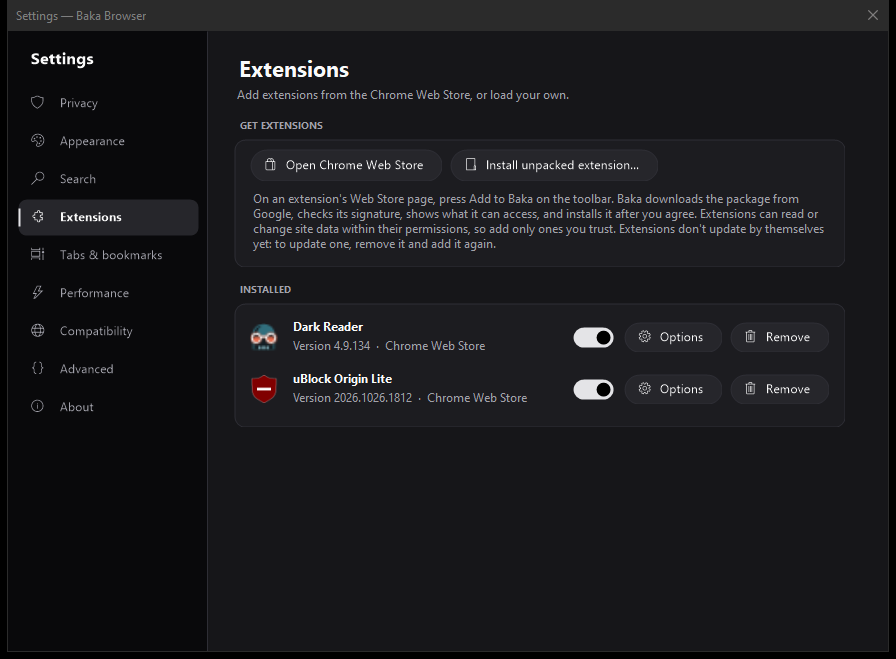
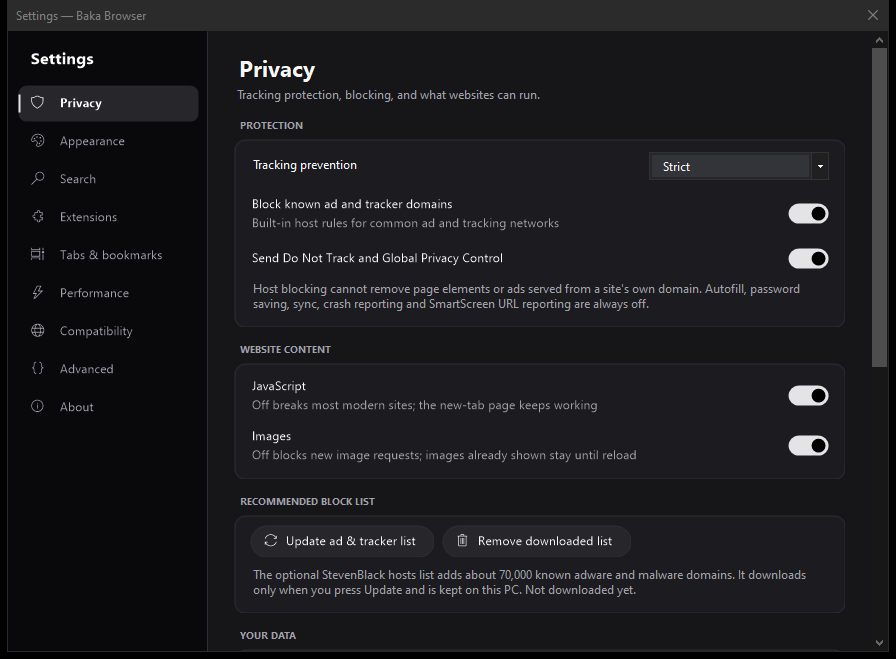
Baka Browser 1.5.0: uBlock Origin Lite on first start, lower background-tab memory, upload and 4K self-tests

diff --git a/BrowserForm.MediaTest.cs b/BrowserForm.MediaTest.cs
@@ -1,0 +1,130 @@
+using System.Net;
+using System.Text;
+using System.Text.Json;
+
+namespace Baka;
+
+/// Part of --ui-test: real file uploads (a photo and a video picked through the page's file input, and a
+/// large drag-and-drop style FormData post) to a local server, and the engine's 4K video decoding support.
+sealed partial class BrowserForm
+{
+    async Task RunMediaChecksAsync(Action<bool, string> step, Action<string> note, Func<string, int, Task> go,
+        Func<string, Task<string>> eval, Func<int, Task> wait, string reportDir)
+    {
+        var port = 47000 + Random.Shared.Next(1000);
+        var prefix = $"http://127.0.0.1:{port}/";
+        using var listener = new HttpListener();
+        listener.Prefixes.Add(prefix);
+        var received = new List<(string Path, long Bytes)>();
+        try { listener.Start(); }
+        catch (Exception ex) { step(false, "local upload server could not start: " + ex.Message); return; }
+        var serving = Task.Run(async () =>
+        {
+            while (listener.IsListening)
+            {
+                HttpListenerContext ctx;
+                try { ctx = await listener.GetContextAsync(); } catch { break; }
+                try
+                {
+                    long total = 0;
+                    if (ctx.Request.HasEntityBody)
+                    {
+                        var buffer = new byte[1 << 16]; int n;
+                        while ((n = await ctx.Request.InputStream.ReadAsync(buffer)) > 0) total += n;
+                    }
+                    lock (received) received.Add((ctx.Request.Url!.AbsolutePath, total));
+                    var body = ctx.Request.Url!.AbsolutePath == "/"
+                        ? "<!doctype html><title>upload</title><form id=f method=post action=/form enctype=multipart/form-data><input id=photo type=file name=photo accept=image/*><input id=video type=file name=video accept=video/*></form>"
+                        : $"received {total}";
+                    var bytes = Encoding.UTF8.GetBytes(body);
+                    ctx.Response.ContentType = "text/html";
+                    ctx.Response.ContentLength64 = bytes.Length;
+                    await ctx.Response.OutputStream.WriteAsync(bytes);
+                    ctx.Response.Close();
+                }
+                catch { try { ctx.Response.Abort(); } catch { } }
+            }
+        });
+
+        try
+        {
+            // test files: a real JPEG-sized photo and a 40 MB "video"
+            var photo = Path.Combine(reportDir, "upload-photo.jpg");
+            var video = Path.Combine(reportDir, "upload-video.mp4");
+            File.WriteAllBytes(photo, RandomBytes(3 * 1024 * 1024));
+            File.WriteAllBytes(video, RandomBytes(40 * 1024 * 1024));
+
+            await go(prefix, 1200);
+            if (Current?.View.CoreWebView2 is not { } core) { step(false, "upload page did not open"); return; }
+            // Put the files into the page's <input type=file> exactly as the file picker does.
+            await core.CallDevToolsProtocolMethodAsync("DOM.enable", "{}");
+            var doc = JsonDocument.Parse(await core.CallDevToolsProtocolMethodAsync("DOM.getDocument", "{}"));
+            var rootId = doc.RootElement.GetProperty("root").GetProperty("nodeId").GetInt32();
+            foreach (var (selector, file) in new[] { ("#photo", photo), ("#video", video) })
+            {
+                var q = JsonDocument.Parse(await core.CallDevToolsProtocolMethodAsync("DOM.querySelector",
+                    JsonSerializer.Serialize(new { nodeId = rootId, selector })));
+                var nodeId = q.RootElement.GetProperty("nodeId").GetInt32();
+                await core.CallDevToolsProtocolMethodAsync("DOM.setFileInputFiles",
+                    JsonSerializer.Serialize(new { files = new[] { file }, nodeId }));
+            }
+            var sizes = await eval("JSON.stringify([document.getElementById('photo').files[0]?.size||0,document.getElementById('video').files[0]?.size||0])");
+            note("file inputs hold: " + sizes);
+            // Form submit (classic upload) and fetch with FormData (what most sites use).
+            var fetchResult = await EvalAwaitAsync(core, @"(async()=>{const fd=new FormData();fd.append('photo',document.getElementById('photo').files[0]);fd.append('video',document.getElementById('video').files[0]);
+                try{const r=await fetch('/fetch',{method:'POST',body:fd});return await r.text()}catch(e){return 'error '+e}})()");
+            // Chunked XHR upload of Blob slices with progress events (Google Photos / YouTube / Drive style).
+            var xhrResult = await EvalAwaitAsync(core, @"(async()=>{const f=document.getElementById('video').files[0];const size=8*1024*1024;let sent=0,progress=0;
+                for(let o=0;o<f.size;o+=size){await new Promise((ok,bad)=>{const x=new XMLHttpRequest();x.open('PUT','/xhr');x.upload.onprogress=()=>progress++;
+                x.onload=()=>{sent+=Math.min(size,f.size-o);ok()};x.onerror=()=>bad('xhr error');x.send(f.slice(o,o+size))})}return sent+' bytes, '+progress+' progress events'})()");
+            note("chunked XHR upload: " + xhrResult);
+            await wait(4000);
+            await eval("document.getElementById('f').submit()");
+            var deadline = DateTime.UtcNow.AddSeconds(60);
+            while (DateTime.UtcNow < deadline) { lock (received) if (received.Any(r => r.Path == "/form")) break; await Task.Delay(300); }
+            long fetchBytes, formBytes, xhrBytes;
+            lock (received)
+            {
+                xhrBytes = received.Where(r => r.Path == "/xhr").Sum(r => r.Bytes);
+                fetchBytes = received.Where(r => r.Path == "/fetch").Select(r => r.Bytes).DefaultIfEmpty(0).Max();
+                formBytes = received.Where(r => r.Path == "/form").Select(r => r.Bytes).DefaultIfEmpty(0).Max();
+            }
+            var expected = new FileInfo(photo).Length + new FileInfo(video).Length;
+            note($"fetch upload: server got {fetchBytes:N0} bytes (files {expected:N0}); page said {fetchResult}");
+            note($"form upload: server got {formBytes:N0} bytes");
+            step(fetchBytes >= expected, "a photo and a 40 MB video upload with fetch/FormData (how most sites upload)");
+            step(formBytes >= expected, "the same files upload with a normal form");
+            step(xhrBytes == new FileInfo(video).Length, $"the video uploads in 8 MB XHR chunks with progress (server got {xhrBytes:N0} bytes)");
+            try { File.Delete(photo); File.Delete(video); } catch { }
+        }
+        catch (Exception ex) { step(false, "upload test: " + ex.Message); }
+        finally { try { listener.Stop(); } catch { } }
+        await serving.ContinueWith(_ => { });
+
+        // 4K: what the engine can decode, and whether it can do it smoothly.
+        var media = Current?.View.CoreWebView2 is { } mcore ? await EvalAwaitAsync(mcore, @"(async()=>{const t=[['VP9 4K60','video/webm; codecs=""vp09.00.51.08""'],['AV1 4K60','video/mp4; codecs=""av01.0.13M.08""'],['H.264 4K','video/mp4; codecs=""avc1.640033""'],['HEVC 4K','video/mp4; codecs=""hvc1.1.6.L153.B0""']];
+            const out=[];for(const [n,c] of t){let i={supported:false,smooth:false,powerEfficient:false};
+            try{i=await navigator.mediaCapabilities.decodingInfo({type:'media-source',video:{contentType:c,width:3840,height:2160,framerate:60,bitrate:40000000}})}catch(e){}
+            out.push(n+': '+(MediaSource.isTypeSupported(c)?'yes':'no')+' smooth='+i.smooth+' hw='+i.powerEfficient)}return out.join(' | ')})()") : "no page";
+        note("4K decoding: " + media);
+        step(media.Contains("VP9 4K60: yes", StringComparison.Ordinal) && media.Contains("AV1 4K60: yes", StringComparison.Ordinal),
+            "4K VP9 and AV1 video (YouTube's 4K formats) are supported");
+    }
+
+    /// ExecuteScriptAsync does not wait for promises (it returns "{}"), so async checks go through CDP.
+    static async Task<string> EvalAwaitAsync(Microsoft.Web.WebView2.Core.CoreWebView2 core, string expression)
+    {
+        try
+        {
+            var json = await core.CallDevToolsProtocolMethodAsync("Runtime.evaluate",
+                JsonSerializer.Serialize(new { expression, awaitPromise = true, returnByValue = true }));
+            using var d = JsonDocument.Parse(json);
+            if (d.RootElement.TryGetProperty("result", out var r) && r.TryGetProperty("value", out var v))
+                return v.ValueKind == JsonValueKind.String ? v.GetString() ?? "" : v.GetRawText();
+            return json;
+        }
+        catch (Exception ex) { return "error " + ex.Message; }
+    }
+
+    static byte[] RandomBytes(int n) { var b = new byte[n]; Random.Shared.NextBytes(b); return b; }
+}

diff --git a/BrowserForm.UiTest.cs b/BrowserForm.UiTest.cs
@@ -109,6 +109,8 @@ sealed partial class BrowserForm
             // 3. Chrome Web Store: Add to Baka, real download, signature check, install
             if (_extensionsAvailable)
             {
+                Step(Config.Current.DefaultAdBlockerAdded && (await ListExtensionsAsync()).Any(e => e.Id == DefaultAdBlockerId),
+                    "a new profile gets uBlock Origin Lite on first start");
                 await Go($"https://chromewebstore.google.com/detail/dark-reader/{DarkReaderId}", 4000);
                 Step(_storeButton.Visible, "Add to Baka appears on a Chrome Web Store extension page");
                 Shot("web-store");
@@ -127,8 +129,10 @@ sealed partial class BrowserForm
                 Step(list.Any(e => e.Id == DarkReaderId) && list.Any(e => e.Id == UBlockLiteId), "both extensions are listed");
                 Step(list.All(e => !BuiltInExtensionIds.Contains(e.Id)), "WebView2's own built-in extensions are not listed");
                 Note($"tabs after install: {string.Join(" | ", _open.Select(t => t.View.CoreWebView2?.Source))}");
+                // Dark Reader opens its help page in a new tab shortly after install; let that happen first.
+                await Wait(2500);
                 if (testTab is not null && _open.Contains(testTab)) _tabs.Select(_open.IndexOf(testTab));
-                await Wait(400);
+                await Wait(600);
                 UpdateStoreButton();
                 Step(_storeButton.Text == "Added to Baka" && !_storeButton.Enabled, "the store button changes to Added to Baka");
                 Shot("web-store-added");
@@ -188,6 +192,9 @@ sealed partial class BrowserForm
                 await SetExtensionEnabledAsync(UBlockLiteId, true);
                 Step((await ListExtensionsAsync()).First(e => e.Id == UBlockLiteId).Enabled, "and turned back on");
             }
+
+            // 7b. uploads and 4K video, against a local test server
+            await RunMediaChecksAsync(Step, Note, Go, Eval, Wait, reportDir);
 
             // 8. every settings page
             var settings = new SettingsForm(_privateBrowsing, ClearSiteDataAsync, this, UpdateRecommendedBlocklistAsync,

diff --git a/BrowserForm.Extensions.cs b/BrowserForm.Extensions.cs
@@ -167,6 +167,41 @@ sealed partial class BrowserForm
         }
     }
 
+    /// uBlock Origin Lite (free, open source, Manifest V3) from the Chrome Web Store.
+    internal const string DefaultAdBlockerId = "ddkjiahejlhfcafbddmgiahcphecmpfh";
+
+    /// Adds uBlock Origin Lite once, on the first start with extensions available. It is tried once per
+    /// profile: if the user later removes it, it stays removed. Turned off with Settings > Privacy.
+    async Task EnsureDefaultAdBlockerAsync()
+    {
+        if (!_extensionsAvailable || _privateBrowsing || !Config.Current.InstallDefaultAdBlocker
+            || Config.Current.DefaultAdBlockerAdded || Profile is not { } profile) return;
+        ExtensionPackage? package = null;
+        try
+        {
+            if (!(await profile.GetBrowserExtensionsAsync()).Any(e => e.Id == DefaultAdBlockerId))
+            {
+                var engine = WebStore.EngineVersion(CoreWebView2Environment.GetAvailableBrowserVersionString());
+                package = await WebStore.DownloadAsync(DefaultAdBlockerId, engine);
+                var folder = WebStore.Commit(package);
+                package = null;
+                var ext = await profile.AddBrowserExtensionAsync(folder);
+                var index = WebStore.LoadIndex();
+                index[ext.Id] = folder;
+                WebStore.SaveIndex(index);
+                _installedExtensionIds.Add(ext.Id);
+            }
+            Config.Current.DefaultAdBlockerAdded = true;
+            Config.Current.Save();
+            UpdateStoreButton();
+        }
+        catch
+        {
+            // Offline or the store is unreachable: try again on the next start.
+            if (package is not null) WebStore.Discard(package);
+        }
+    }
+
     // ---------- extensions menu and popups ----------
 
     async Task ShowExtensionsMenuAsync()

diff --git a/SettingsForm.cs b/SettingsForm.cs
@@ -169,6 +169,9 @@ sealed class SettingsForm : Form
         Buttons(("Open Chrome Web Store", Theme.Store, () => { _extensions.OpenWebStore(); Close(); }),
             ("Install unpacked extension…", Theme.Folder, ChooseExtensionFolder));
         Note("On an extension's Web Store page, press Add to Baka on the toolbar. Baka downloads the package from Google, checks its signature, shows what it can access, and installs it after you agree. Extensions can read or change site data within their permissions, so add only ones you trust. Extensions don't update by themselves yet: to update one, remove it and add it again.");
+        Card("Ad blocker");
+        Toggle("Add uBlock Origin Lite on first start", Config.Current.InstallDefaultAdBlocker,
+            v => Config.Current.InstallDefaultAdBlocker = v, "Free and open source; added once, removing it is respected");
         Card("Installed");
         _extensionsList = _card;
         Note("Loading…");
@@ -197,7 +200,7 @@ sealed class SettingsForm : Form
         Page("Performance", Theme.Lightning, "Memory use and page zoom.");
         Card("Memory");
         Spinner("Sleep hidden tabs after (minutes, 0 = never)", Config.Current.IdleMinutes, v => Config.Current.IdleMinutes = v);
-        Note("Hidden tabs that are not loading or playing audio are put to sleep and wake when you select them.");
+        Note("Hidden tabs that are not loading or playing audio are put to sleep and wake when you select them. Background tabs also ask the engine to trim caches right away.");
         Card("Zoom");
         var zooms = new[] { "80%", "90%", "100%", "110%", "125%", "150%" };
         var current = $"{Math.Round(Config.Current.ZoomFactor * 100)}%";

diff --git a/BrowserForm.cs b/BrowserForm.cs
@@ -437,7 +437,12 @@ sealed partial class BrowserForm : Form, IExtensionHost
             try { await ListExtensionsAsync(); } catch { }   // fills the "already added" state of the store button
 
         _idleTimer.Start();
-        if (Args.Value("--ui-test") is { } testDir) _ = RunUiTestAsync(testDir);
+        if (Args.Value("--ui-test") is { } testDir)
+        {
+            await EnsureDefaultAdBlockerAsync();   // the test checks the first-run result
+            _ = RunUiTestAsync(testDir);
+        }
+        else _ = EnsureDefaultAdBlockerAsync();
         if (!_privateBrowsing && Config.Current.AutoUpdateEnabled) _updateTimer.Start();
     }
 
@@ -1085,6 +1090,13 @@ sealed partial class BrowserForm : Form, IExtensionHost
             var t = _open[i];
             var active = i == _tabs.SelectedIndex;
             t.View.Visible = active;
+            // Background tabs ask the engine to trim memory (caches, decoded images); the visible one runs normally.
+            if (t.View.CoreWebView2 is { } levelCore)
+            {
+                var level = active ? Microsoft.Web.WebView2.Core.CoreWebView2MemoryUsageTargetLevel.Normal
+                                   : Microsoft.Web.WebView2.Core.CoreWebView2MemoryUsageTargetLevel.Low;
+                try { if (levelCore.MemoryUsageTargetLevel != level) levelCore.MemoryUsageTargetLevel = level; } catch { }
+            }
             if (!active) continue;
             t.SuspendRetryAfterUtc = DateTime.MinValue;
             if (t.View.CoreWebView2 is { } activeCore && activeCore.IsSuspended)

diff --git a/Program.cs b/Program.cs
@@ -178,6 +178,10 @@ sealed class Config
     /// 0 for settings written before 1.4. Version 2 moved the old default look (Dark + blue accent)
     /// to the BAKA theme once; anything the user picked themselves is left alone.
     public int SettingsVersion { get; set; }
+    /// Add uBlock Origin Lite on first start (1.5). DefaultAdBlockerAdded records that it was done once,
+    /// so removing the extension is respected.
+    public bool InstallDefaultAdBlocker { get; set; } = true;
+    public bool DefaultAdBlockerAdded { get; set; }
 
     [JsonIgnore] public static Config Current { get; private set; } = new();
     public const int CurrentSettingsVersion = 2;

diff --git a/README.md b/README.md
@@ -8,6 +8,10 @@ A small, private Windows browser with Chrome Web Store extensions, a compact gra
 |---|---|---|
 | ![Add to Baka on a Chrome Web Store page](docs/screenshots/web-store.png) | ![Extensions menu](docs/screenshots/extensions-menu.png) | ![Settings](docs/screenshots/settings.png) |
 
+| uBlock Origin Lite built in (1.5) | Extension popups | Performance settings (1.5) |
+|---|---|---|
+| ![Settings > Extensions with the ad blocker switch and uBlock Origin Lite installed](docs/screenshots/settings-extensions.png) | ![Dark Reader popup opened from the puzzle button](docs/screenshots/extension-popup.png) | ![Settings > Performance](docs/screenshots/settings-performance.png) |
+
 **[Download the latest release](https://github.com/OldcarryG/Baka-browser/releases/latest)**: run `BakaBrowser-win-Setup.exe`.
 
 ## Install
@@ -27,6 +31,8 @@ The installer and update packages are not Authenticode-signed in this repository
 - **Tabs and window controls:** Place tabs on the left or top, collapse the left tab rail, and restore up to 50 regular tabs from the previous session.
 - **Fullscreen:** Choose true fullscreen or maximize the page while keeping browser controls visible.
 - **Privacy:** WebView2 tracking prevention, built-in host rules, optional downloaded ad/tracker domains, Do Not Track and Global Privacy Control signals, JavaScript and image switches, and site-data clearing.
+- **uBlock Origin Lite by default:** New profiles get the free, open-source [uBlock Origin Lite](https://github.com/uBlockOrigin/uBOL-home) from the Chrome Web Store on first start, for element hiding and filter-list blocking. It is added once; removing it is respected. Switch: Settings > Extensions > Ad blocker.
+- **Uploads and 4K video:** The UI test uploads a photo and a 40 MB video by form, `fetch` and chunked XHR, and checks 4K60 VP9, AV1 and H.264 decoding (hardware decoding on a supported GPU). HEVC needs Microsoft's HEVC codec.
 - **Ad and tracker blocking:** Built-in and custom rules block whole domains. Settings can manually download the [StevenBlack hosts list](https://github.com/StevenBlack/hosts), keep it locally, and remove it later. The update sends a request to GitHub for the list; it does not include visited URLs or tab data.
 - **Site exceptions:** Allowed domains bypass matching block rules for that domain and its subdomains.
 - **Private windows:** Open from the toolbar or with `Ctrl+Shift+N`. Private browsing uses a temporary WebView2 profile and does not save history, session tabs, or dashboard edits. Downloaded files remain where you save them.
@@ -78,7 +84,7 @@ See [GITHUB_UPLOAD_GUIDE.md](GITHUB_UPLOAD_GUIDE.md) for the safe, step-by-step 
 - The rendering engine is WebView2 (Chromium). Extensions run with WebView2's extension support, which covers most but not all Chrome extension APIs.
 - The included installer targets Windows x64 only. There is no macOS or Linux build.
 - Windows may show a SmartScreen warning until the release is signed with a trusted code-signing certificate.
-- Idle-tab suspension is best-effort and controlled in Settings. It reduces background work but does not cap the memory used by an active page.
+- Background tabs ask WebView2 to trim memory (`MemoryUsageTargetLevel = Low`) as soon as they are hidden. Idle-tab suspension is best-effort and controlled in Settings. It reduces background work but does not cap the memory used by an active page.
 - The browser has no bookmark folders, built-in proxy, or cloud sync.
 
 ## License

diff --git a/RELEASE_NOTES.md b/RELEASE_NOTES.md
@@ -1,20 +1,17 @@
-# Baka Browser 1.4.0 Release
+# Baka Browser 1.5.0 Release
 
-Chrome Web Store extensions, a compact BAKA look that matches BAKA Windows, and a new Settings window.
+uBlock Origin Lite out of the box, lower memory for background tabs, and tested photo/video uploads and 4K video.
 
 ## What's new
 
-- **Chrome Web Store extensions.** Open an extension's page on the Chrome Web Store and press **Add to Baka** on the toolbar. Baka downloads the package from Google, checks its signature against the extension's ID, shows what it will be able to access, and installs it after you agree. Tested with Dark Reader and uBlock Origin Lite.
-- **Extensions button** (puzzle icon): open an extension's popup, its options page, turn it off or on, or remove it. Unpacked extensions can still be loaded from a folder.
-- **BAKA theme, compact chrome.** Flat graphite surfaces, a pill-shaped address bar, a slimmer toolbar and tab rail, and icons everywhere: toolbar, menus, bookmarks (with site icons), settings and dialogs. Older installs that never changed the default Dark theme move to BAKA once; Dark, Light and Custom remain in Settings.
-- **New menu** (⋯, or Alt+F): new tab, private window, history, downloads, bookmarks bar, extensions, zoom, print, full screen, settings and about.
-- **New Settings window** with a section rail, grouped cards, on/off switches, an Extensions page, and an About page with a "Check for updates" button.
-- **New-tab page** restyled with mono line icons and quick-link tiles that show each site's icon.
-- Page zoom (Ctrl+plus, Ctrl+minus, Ctrl+0), print (Ctrl+P), and a home button.
+- **uBlock Origin Lite on first start.** New profiles get the free, open-source uBlock Origin Lite ad and tracker blocker from the Chrome Web Store (signature checked like any store install). It is added once: if you remove it, it stays removed. Turn this off in Settings > Extensions > Ad blocker. The built-in domain blocker keeps running alongside it.
+- **Less memory for background tabs.** Tabs you are not looking at ask the engine to trim caches and decoded images straight away (WebView2 `MemoryUsageTargetLevel = Low`); the tab you select goes back to normal. Idle tabs are still put to sleep after 2 minutes.
+- **Uploads tested.** The UI self-test now uploads a 3 MB photo and a 40 MB video picked through a page's file input, with a normal form, with `fetch` + `FormData`, and in 8 MB `XMLHttpRequest` chunks with progress events (the way Google Photos, YouTube and Drive upload).
+- **4K video check.** The self-test reports VP9, AV1, H.264 and HEVC 4K60 decoding support and whether the GPU decodes it.
 
 ## Limits
 
+- If an upload still fails on a particular site, please open an issue with the site name: the generic upload paths above all pass.
+- HEVC playback needs the HEVC codec from Microsoft Store (BAKA Windows installs it at first logon).
 - Store extensions don't update by themselves yet. To update one, remove it and add it again.
-- Extensions run inside Microsoft Edge WebView2, which supports most but not all Chrome extension features. Extensions are off in private windows.
-- Ad blocking built into the browser is domain-based; install an extension such as uBlock Origin Lite for element hiding.
 - The installer is not code-signed, so Windows SmartScreen may warn on first run.

diff --git a/CHANGELOG.md b/CHANGELOG.md
@@ -2,6 +2,17 @@
 
 Notable changes to Baka Browser are recorded here. Versions are published as GitHub Releases by pushing a matching `vMAJOR.MINOR.PATCH` tag.
 
+## [1.5.0] - 2026-10-28
+
+### Added
+
+- uBlock Origin Lite is added from the Chrome Web Store on first start (once per profile; removal is respected). Setting: Settings > Extensions > Ad blocker.
+- `--ui-test` uploads a 3 MB photo and a 40 MB video through a page file input by form, `fetch`/`FormData` and chunked `XMLHttpRequest`, and reports 4K VP9/AV1/H.264/HEVC decoding support.
+
+### Changed
+
+- Background tabs run with WebView2 `MemoryUsageTargetLevel = Low`; the selected tab is set back to Normal.
+
 ## [1.4.0] - 2026-10-28
 
 ### Added
